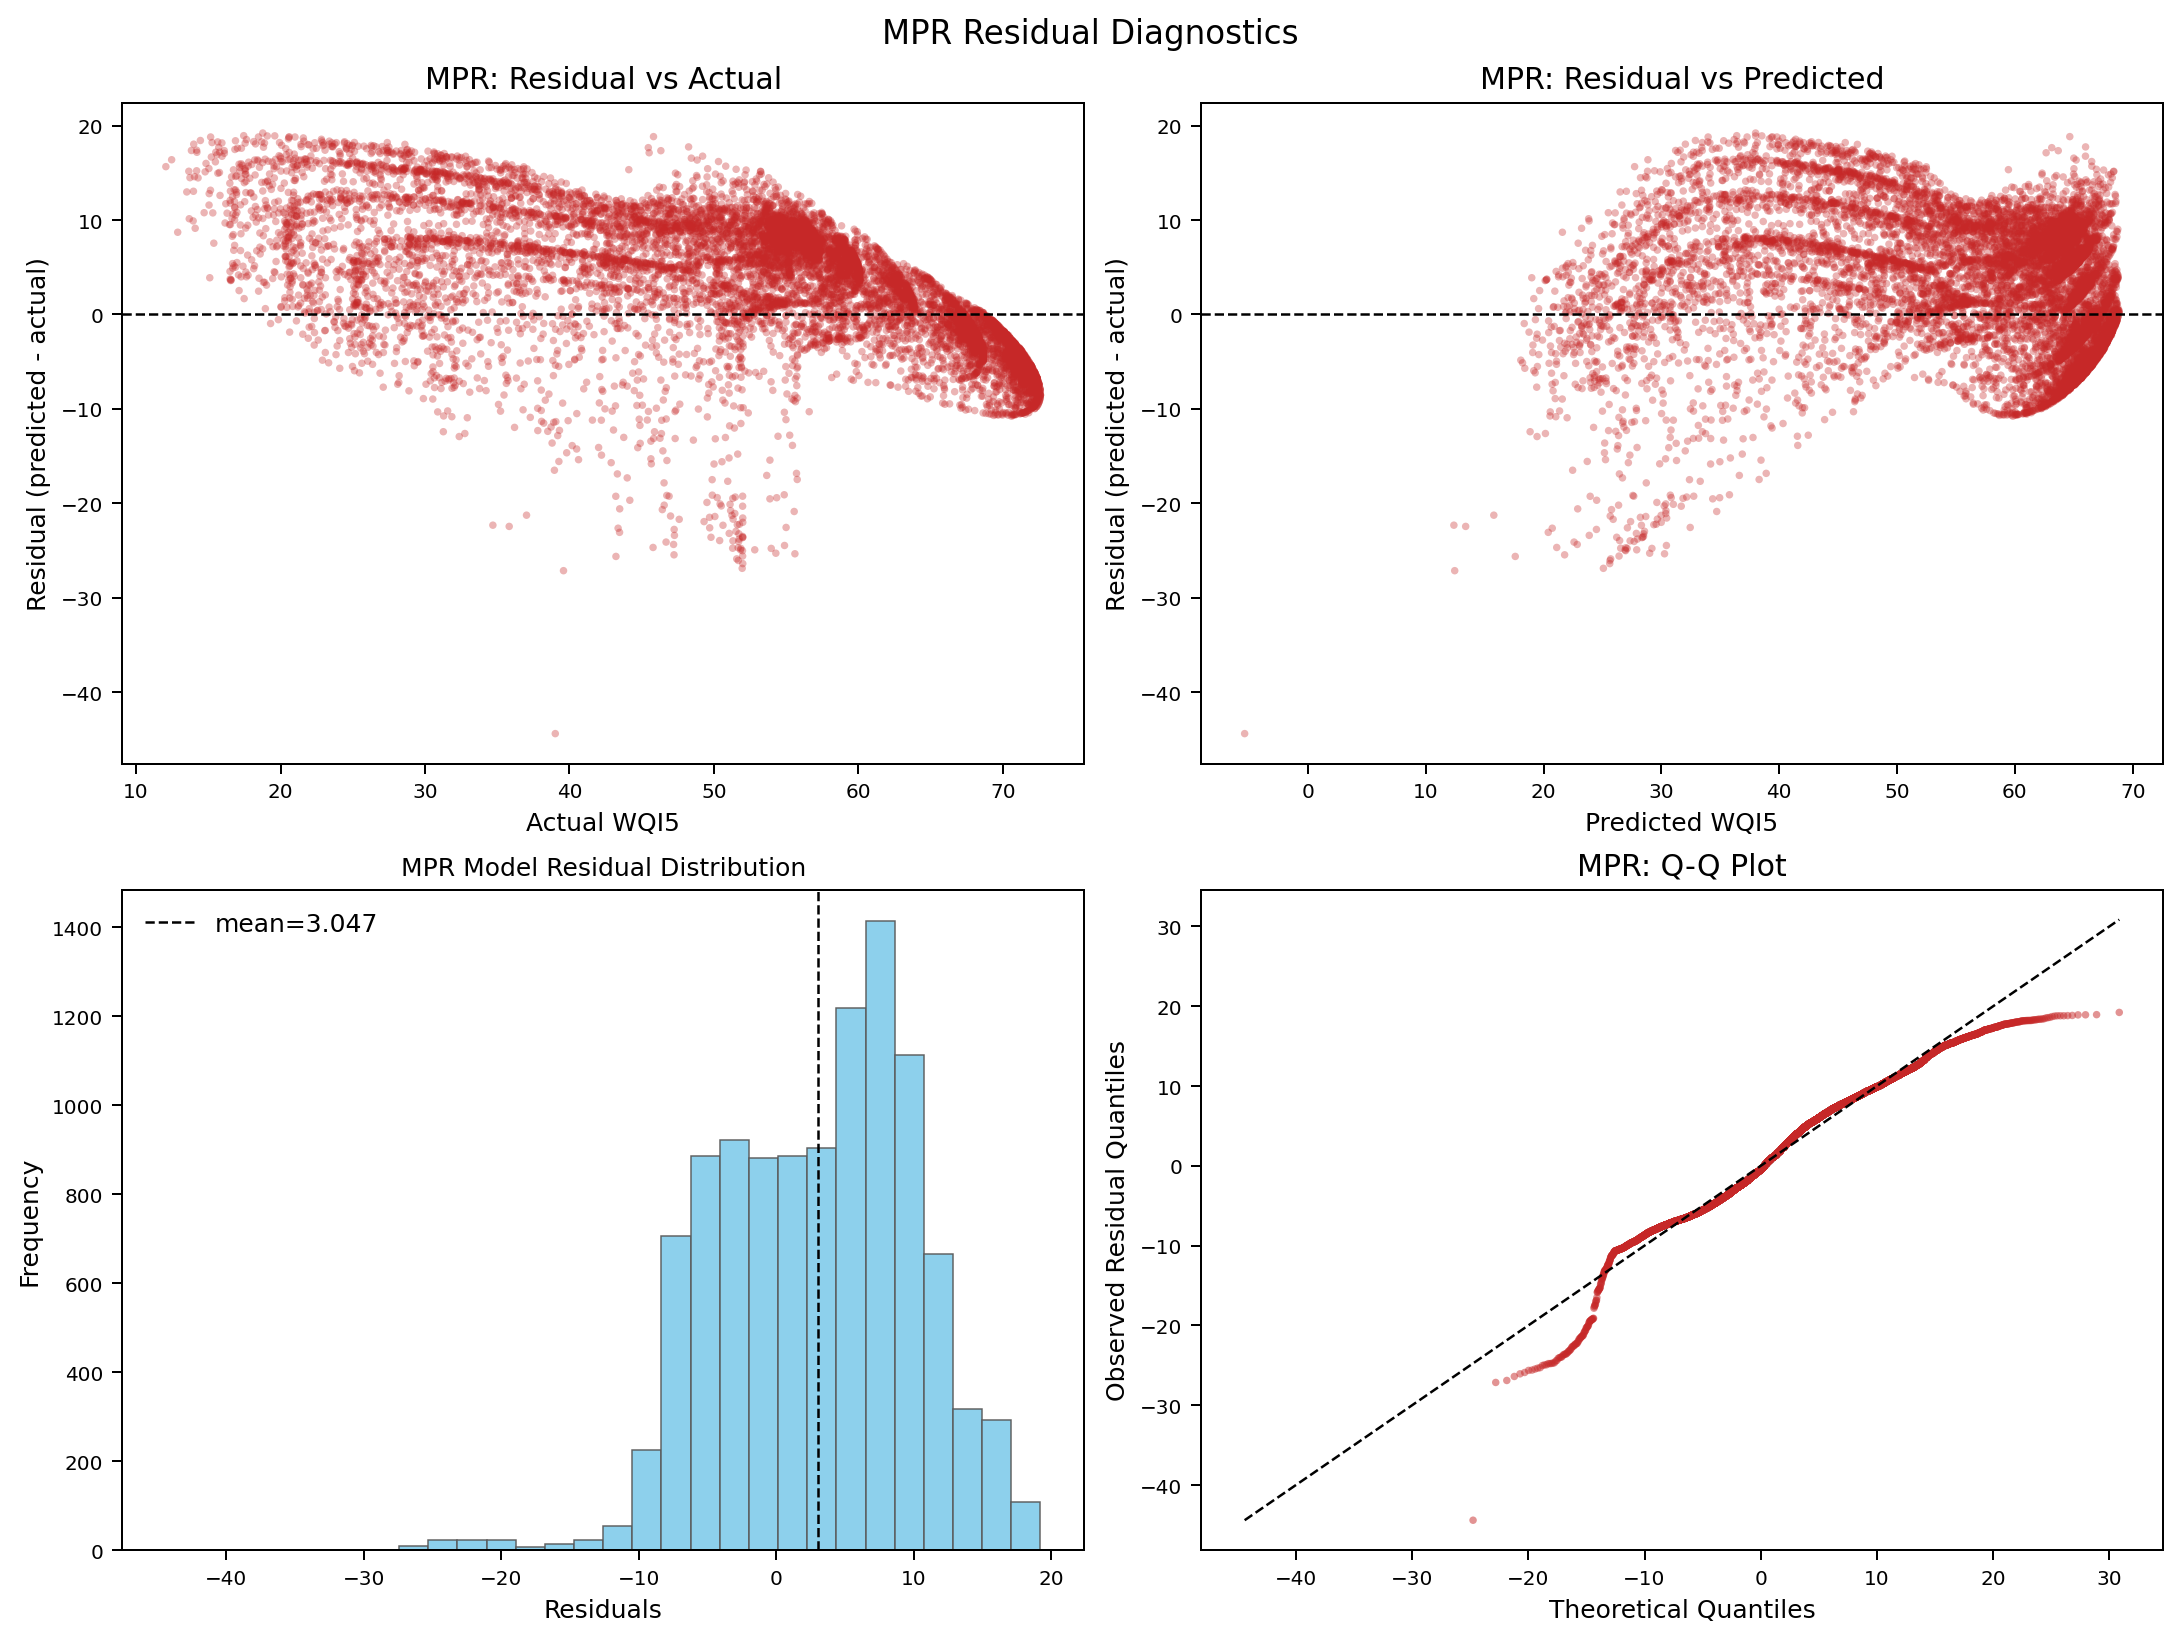
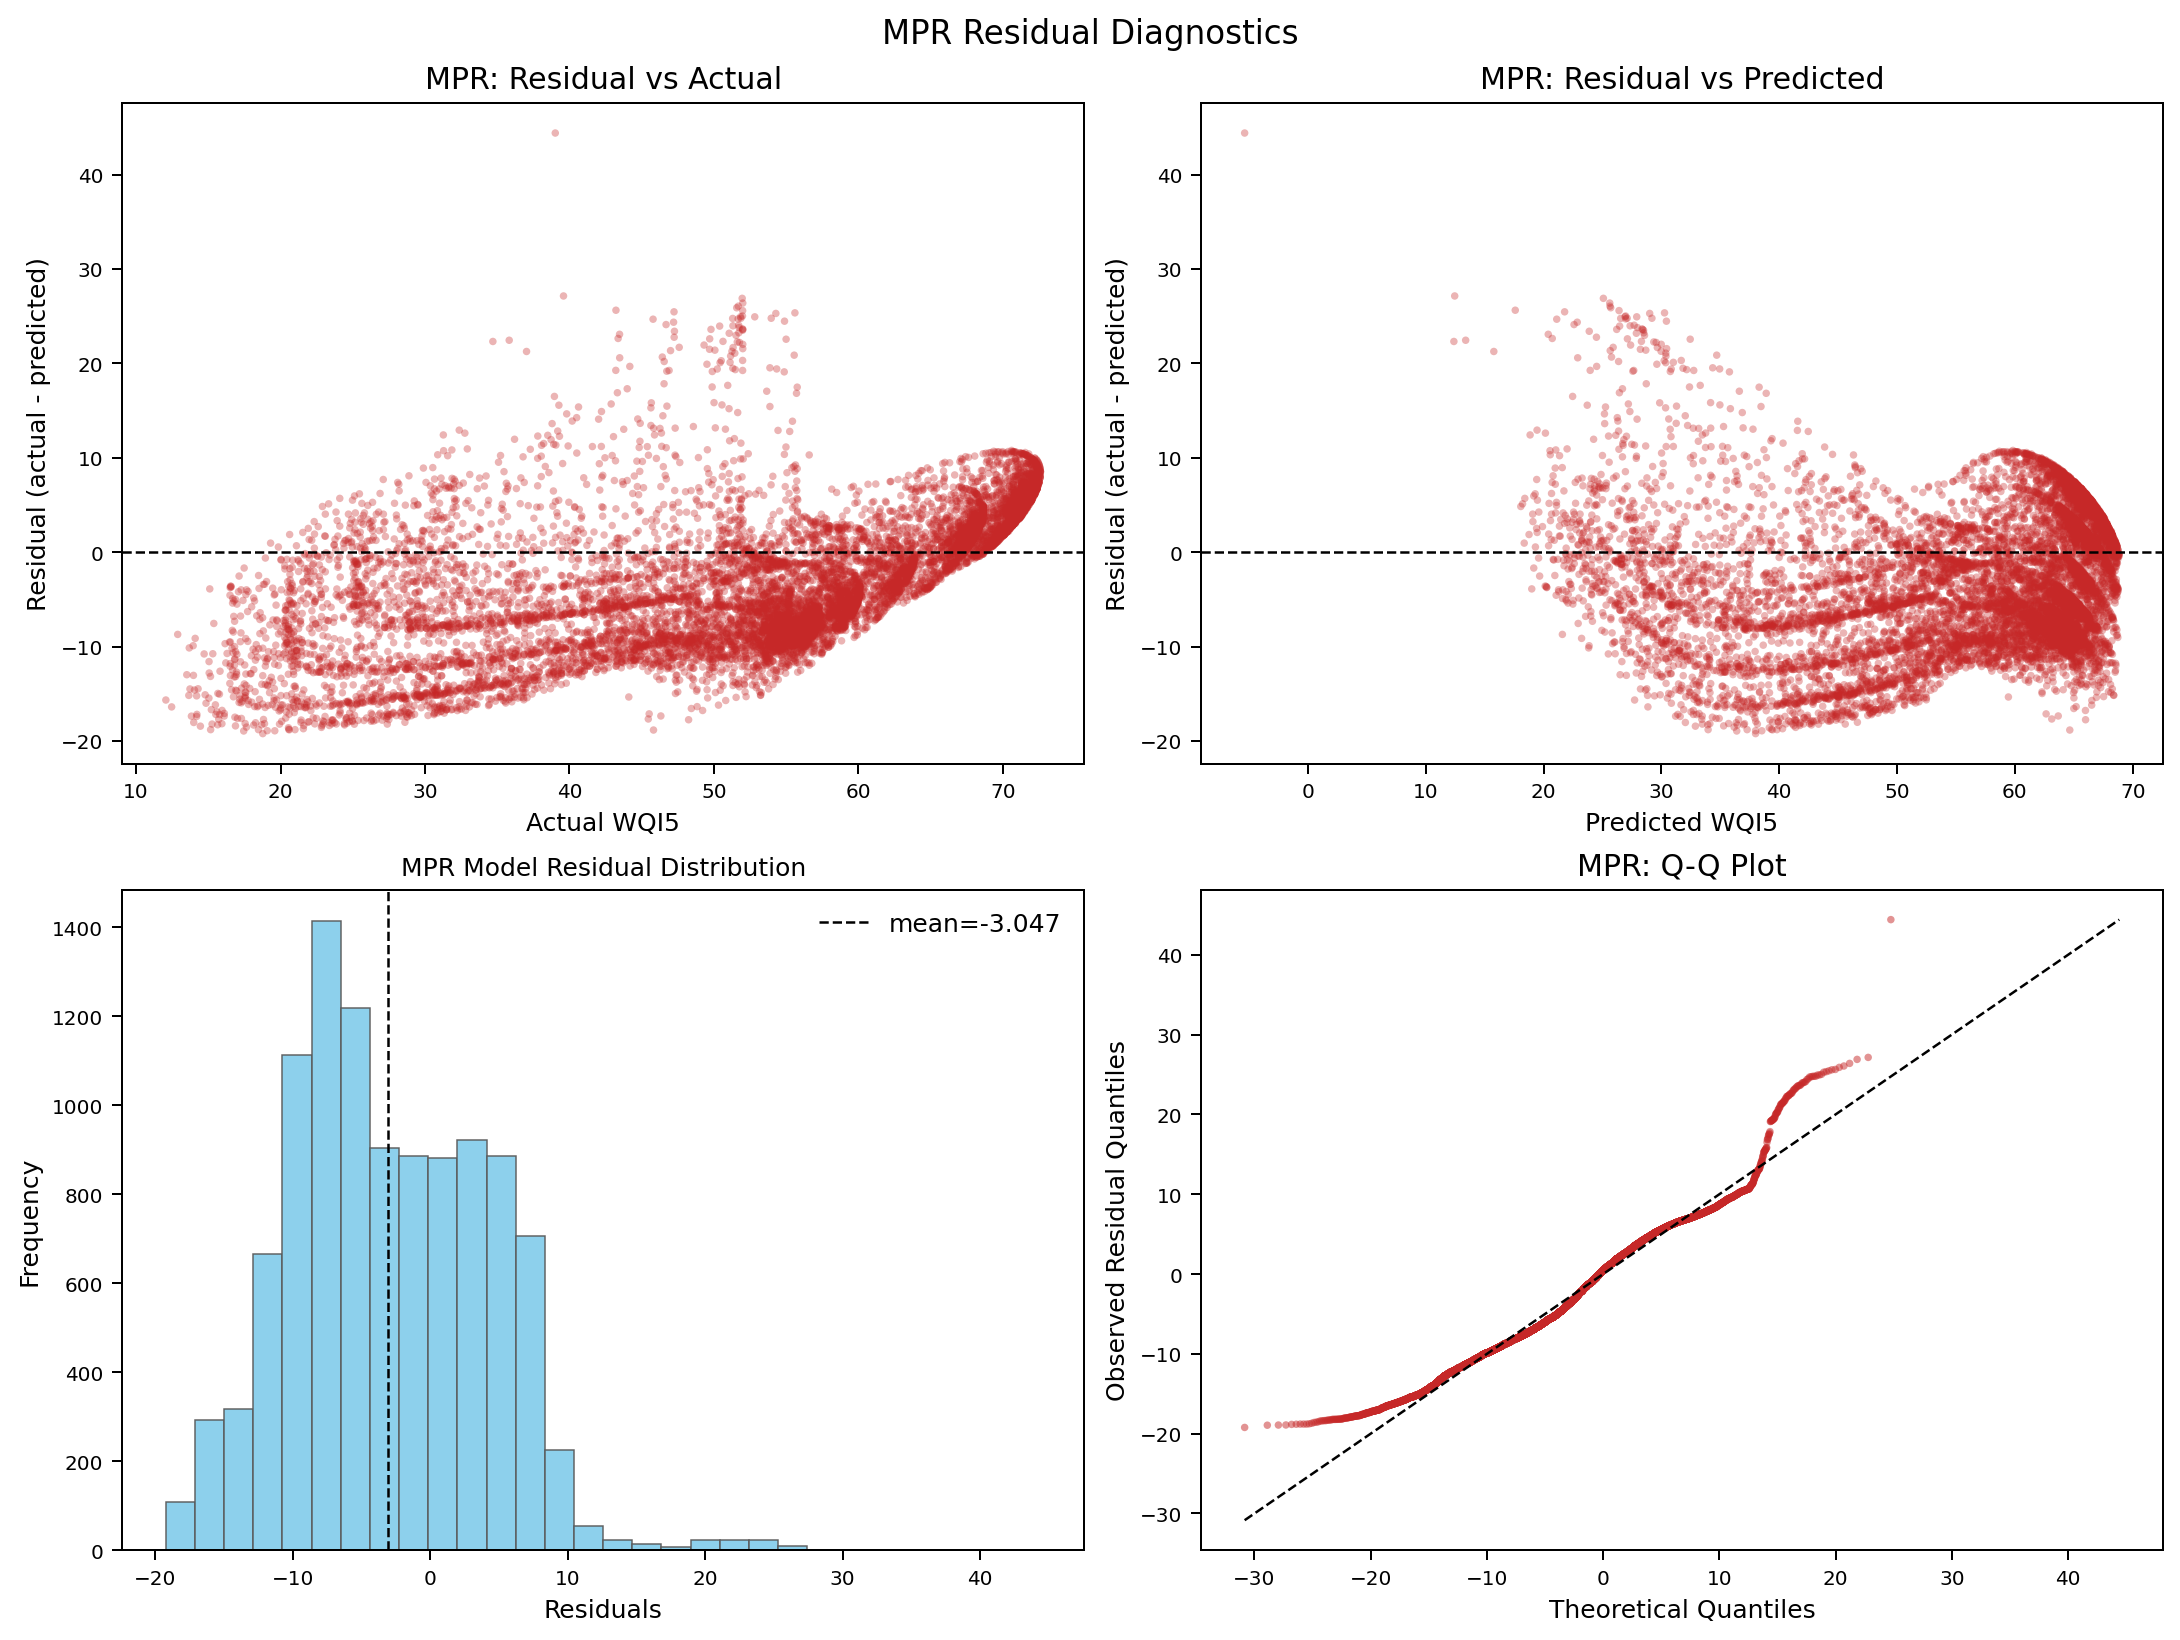
fix(statistics): align residual direction

diff --git a/statistics/generate_statistical_report.py b/statistics/generate_statistical_report.py
@@ -92,7 +92,7 @@ def best_rmse_by_sample_table(metric_ci: pd.DataFrame) -> str:
                 "Best model": row["model"],
                 "Mean RMSE": fmt(row["mean"]),
                 "95% CI": ci,
-                "Runs": int(row["n_runs"]),
+                "Repeated benchmark runs (n)": int(row["n_runs"]),
             }
         )
     table = pd.DataFrame(rows)
@@ -209,6 +209,8 @@ def write_report() -> None:
         "`test_paired_error_tests.csv` reports paired absolute-error differences on the inference evaluation set. For each row, `diff_i = |y_i - yhat_A_i| - |y_i - yhat_B_i|`; the interval is the 2.5th to 97.5th percentile range of bootstrapped mean differences. A negative mean difference means model A has lower average absolute error; a positive mean difference means model B has lower average absolute error. Intervals that include zero indicate that the average difference is small relative to its bootstrap uncertainty.",
         "",
         "## Best Validation RMSE by Sample Size",
+        "",
+        "The run count is the number of repeated benchmark records available for the selected sample size and model in the archived experiment log.",
         "",
         best_rmse_by_sample_table(metric_ci),
         "",

diff --git a/statistics/statistical_analysis_from_xlsx.py b/statistics/statistical_analysis_from_xlsx.py
@@ -281,7 +281,7 @@ def load_test_predictions(path: Path) -> pd.DataFrame:
         block = block.dropna(subset=["actual", "predicted"]).reset_index(drop=True)
         block["row_id"] = np.arange(len(block))
         block["model"] = model
-        block["residual"] = block["predicted"] - block["actual"]
+        block["residual"] = block["actual"] - block["predicted"]
         block["abs_error"] = np.abs(block["residual"])
         block["squared_error"] = block["residual"] ** 2
         block["actual_wqi_band"] = block["actual"].map(wqi_category)
@@ -301,7 +301,7 @@ def mean_predictive_accuracy_pct(actual: np.ndarray, predicted: np.ndarray) -> f
 def compute_prediction_metrics(df: pd.DataFrame) -> pd.Series:
     actual = df["actual"].to_numpy()
     predicted = df["predicted"].to_numpy()
-    residual = predicted - actual
+    residual = actual - predicted
     return pd.Series(
         {
             "r2": r2_score(actual, predicted),

diff --git a/scripts/generate_residual_plots.py b/scripts/generate_residual_plots.py
@@ -60,14 +60,14 @@ def save_model_diagnostics(group: pd.DataFrame, model: str) -> None:
     axes[0].axhline(0.0, color="black", linestyle="--", linewidth=1)
     axes[0].set_title(f"{model}: Residual vs Actual")
     axes[0].set_xlabel("Actual WQI5")
-    axes[0].set_ylabel("Residual (predicted - actual)")
+    axes[0].set_ylabel("Residual (actual - predicted)")
     apply_classic_axes_style(axes[0])
 
     axes[1].scatter(predicted, residual, s=9, alpha=0.35, color=color, edgecolors="none")
     axes[1].axhline(0.0, color="black", linestyle="--", linewidth=1)
     axes[1].set_title(f"{model}: Residual vs Predicted")
     axes[1].set_xlabel("Predicted WQI5")
-    axes[1].set_ylabel("Residual (predicted - actual)")
+    axes[1].set_ylabel("Residual (actual - predicted)")
     apply_classic_axes_style(axes[1])
 
     axes[2].hist(residual, bins=30, color=HIST_FILL, edgecolor=HIST_EDGE, linewidth=0.6, alpha=0.95)
